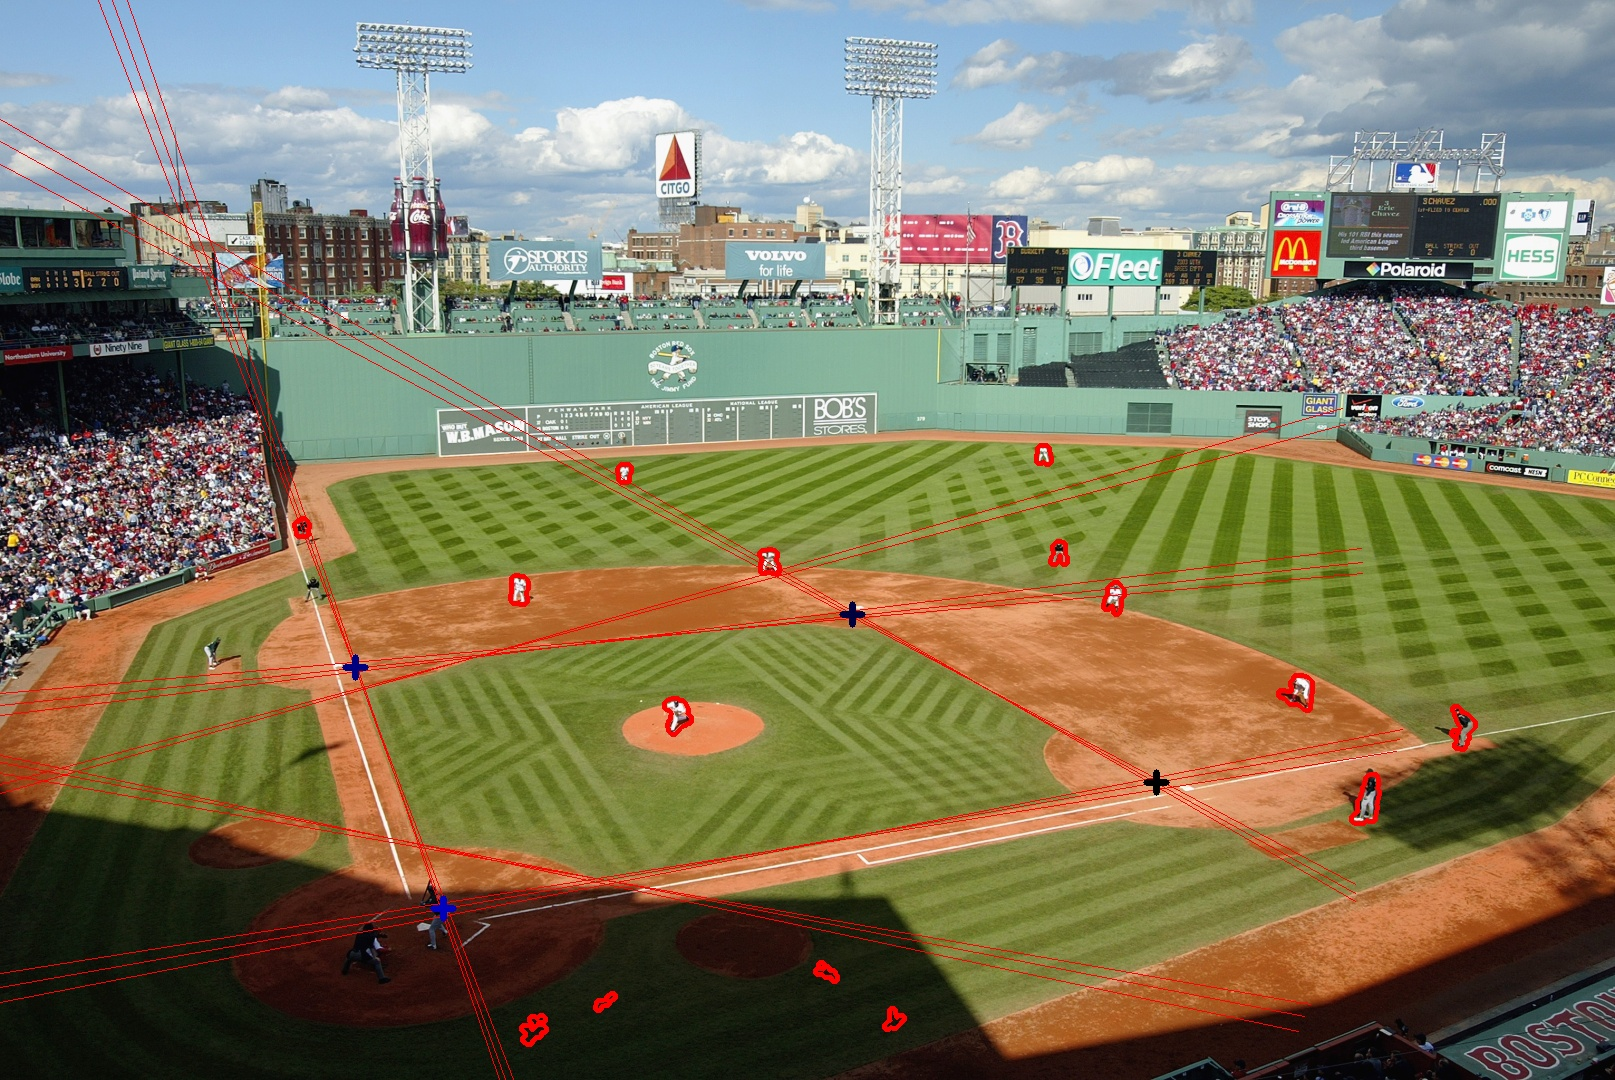
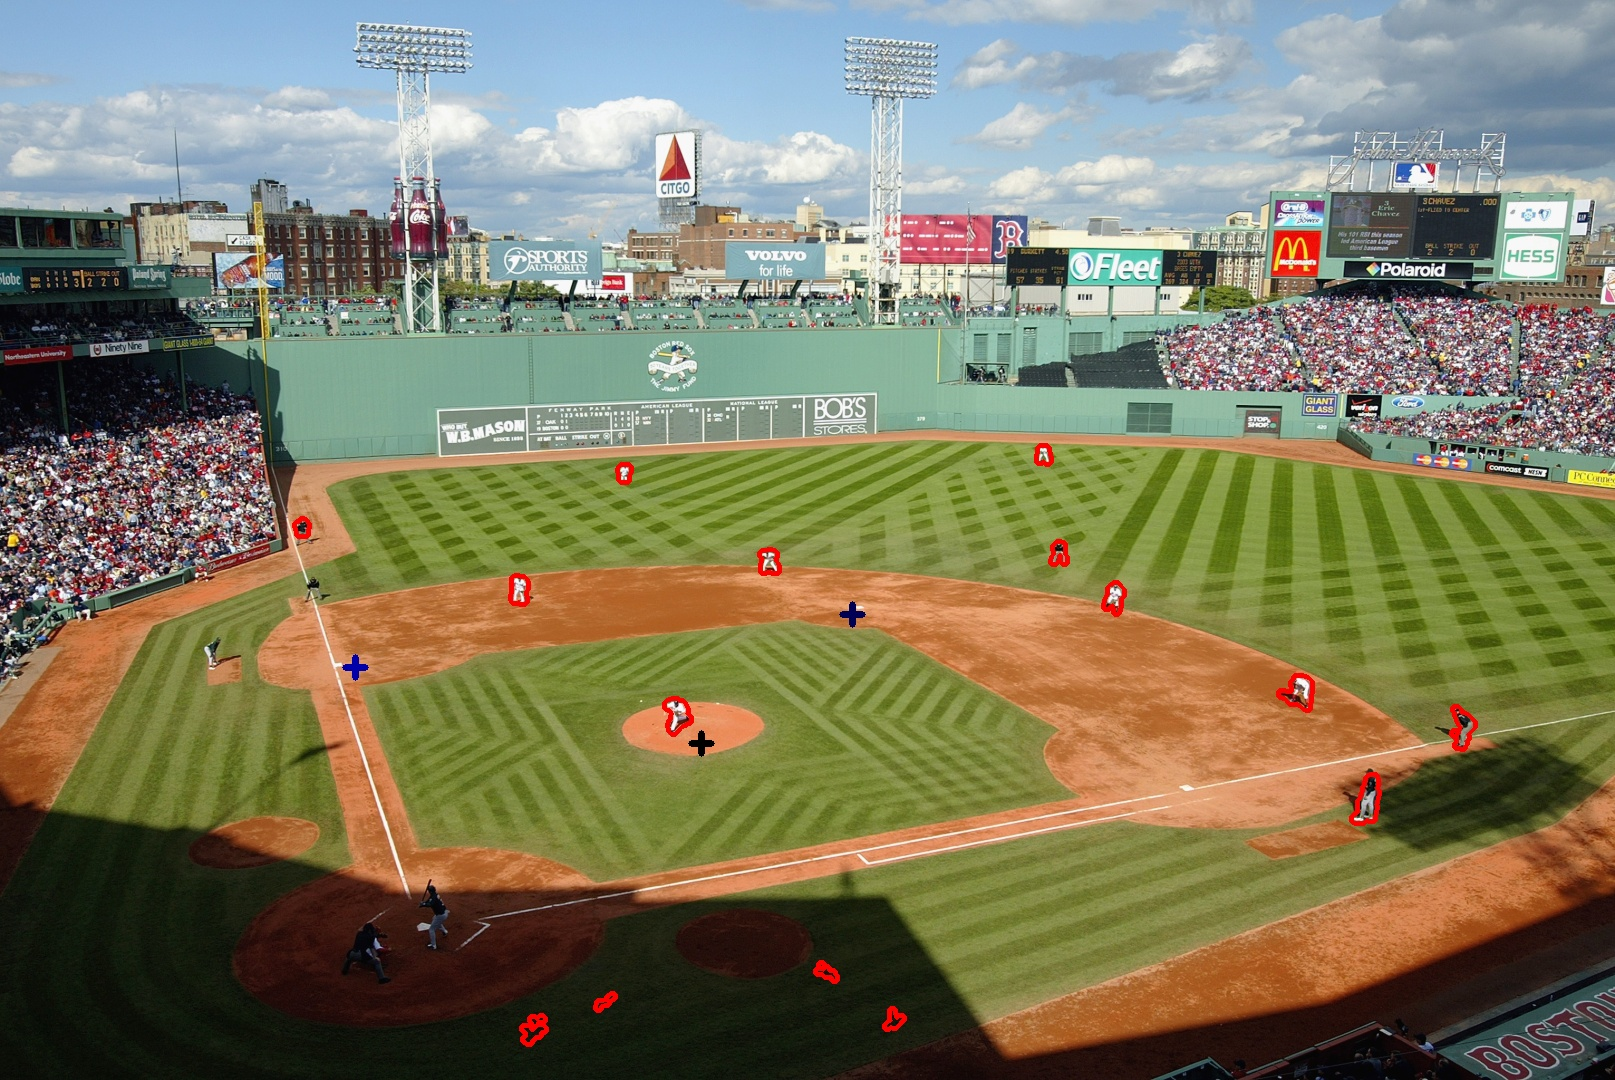
commit so that i can pull

diff --git a/TestPersonDetection/personDetectionTesting.py b/TestPersonDetection/personDetectionTesting.py
@@ -134,9 +134,7 @@ class PlayerFinder(object):
         if cnrs is None:
             return None
 
-        self.positions = cnrs.astype(int)
-
-        """pitcher_mound_x = (cnrs[0][0] + cnrs[1][0] + cnrs[2][0] + cnrs[3][0]) / 4
+        pitcher_mound_x = (cnrs[0][0] + cnrs[1][0] + cnrs[2][0] + cnrs[3][0]) / 4
         pitcher_mound_y = (cnrs[0][1] + cnrs[1][1] + cnrs[2][1] + cnrs[3][1]) / 4
 
         da = 361    #delta angle
@@ -161,16 +159,19 @@ class PlayerFinder(object):
         
         self.infield_cnrs = cnrs.astype(int)
 
-        first = (home_plate_index + 1) % 4
+        first = (home_plate_index + 1) % 4  #corners are already in counter-clockwise order, so just do this
         second = (home_plate_index + 2) % 4
         third = (home_plate_index + 3) % 4
 
         self.positions.append([int(pitcher_mound_x), int(pitcher_mound_y)])
+        
+
+
+        #TODO: delete these.
         self.positions.append(self.infield_cnrs[home_plate_index])
         self.positions.append(self.infield_cnrs[first])
         self.positions.append(self.infield_cnrs[second])
         self.positions.append(self.infield_cnrs[third])
-        #print(self.positions)"""
 
         return image
             
@@ -276,7 +277,7 @@ class PlayerFinder(object):
         '''Best fit of a quadrilateral to the contour'''
 
         approx = infieldFittingRoutines.approxPolyDP_adaptive(contour, nsides=4)
-        return infieldFittingRoutines.hough_fit(contour, nsides=4, approx_fit=None, image_frame=image_frame)
+        return infieldFittingRoutines.hough_fit(contour, nsides=4, approx_fit=None, image_frame=None)
 
     def prepare_output_image(self, input_frame):
         '''Prepare output image for drive station. Draw the found target contour.'''
